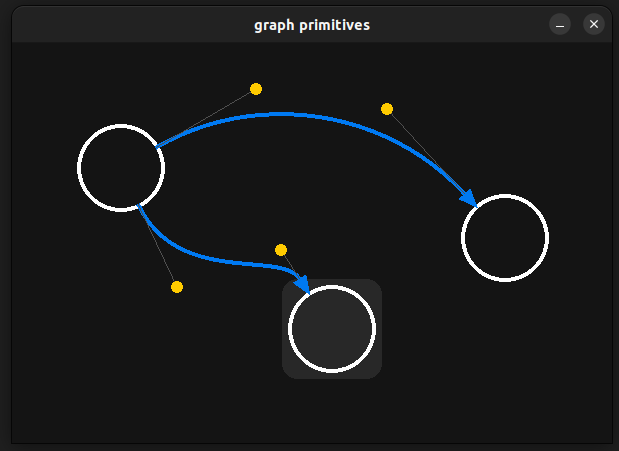
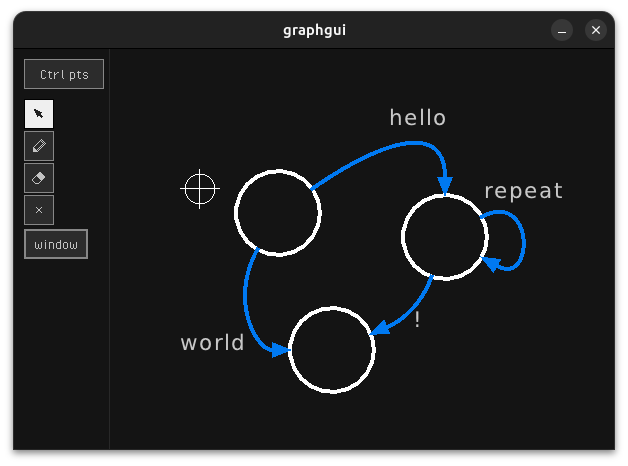
ui features and dynamic object adition

diff --git a/graph.c b/graph.c
@@ -8,7 +8,8 @@
 #include "style_dark.h"
 #include "subwindows.c"
 
-#define ARRAY_LENGTH(array)  sizeof(array)/sizeof(array[0])
+#define COMMONS_IMPLEMENTATION
+#include "commons.h"
 
 #define SCREEN_WIDTH 600
 #define SCREEN_HEGHT 400
@@ -32,10 +33,11 @@ typedef struct Edge {
     int to;
     Vector2 ctrl[2];
     Vector2 loffset;
-    const char label[16]; // TODO: make it resizeable
+    char label[16]; // TODO: make it resizeable
 } Edge;
 
 typedef struct GraphCtx {
+    float  zoom_coef;
     Font font;
     int focused;
     int active;
@@ -110,7 +112,7 @@ static Color global_graph_colors[] = {
     [GC_LABEL_BACKGROUND_HOVER] = {255,255,255, 51},
 };
 
-static_assert(ARRAY_LENGTH(global_graph_colors) == GC_NUM_ITEMS);
+static_assert(ARRAYSIZE(global_graph_colors) == GC_NUM_ITEMS);
 #define internal static
 
 #define focus(type, id)           \
@@ -154,7 +156,7 @@ int main(void)
     // enable debug tracing
     SetTraceLogLevel(LOG_DEBUG);
 
-    InitWindow(SCREEN_WIDTH, SCREEN_HEGHT, "graph primitives");
+    InitWindow(SCREEN_WIDTH, SCREEN_HEGHT, "graphgui");
     SetExitKey(KEY_Q);
     GraphCtx ctx;
     ctx.font = LoadFontEx("/usr/share/fonts/truetype/dejavu/DejaVuSans.ttf", UI_FONT_SIZE, 0, 250);
@@ -162,31 +164,56 @@ int main(void)
 
     Camera2D camera = {0};
     camera.zoom = 1.0f;
+    float scrollSpeed = 0.2f;
 
-    Vector2 nodes[] = {
-        {SCREEN_WIDTH/3, SCREEN_HEGHT/2},
-        {2*SCREEN_WIDTH/3, SCREEN_HEGHT/2},
-        {SCREEN_WIDTH/2, SCREEN_HEGHT*0.7f},
+    Vector2 *nodes = NULL;
+    {
+        Vector2 v1 = {SCREEN_WIDTH/3, SCREEN_HEGHT/2};
+        Vector2 v2 = {2*SCREEN_WIDTH/3, SCREEN_HEGHT/2};
+        Vector2 v3 = {SCREEN_WIDTH/2, SCREEN_HEGHT*0.7f};
+        da_append(nodes, v1);
+        da_append(nodes, v2);
+        da_append(nodes, v3);
     };
 
-    Edge edges[] = {
-        {
+    Edge *edges = NULL;
+    {
+        da_append(edges, ((Edge){
             0, 1, {
                 { 100, -5},
                 {0, -120}
             },
             {0, 0},
             "hello"
-        },
-        {
+        }));
+
+        da_append(edges, ((Edge){
             0, 2, {
                 { 0, 80},
-                {-60, 0}
+                {-75, 0}
             },
             {0, 0},
             "world"
-        },
-    };
+        }));
+
+        da_append(edges, ((Edge){
+            1, 2, {
+                { 0, 100},
+                {70, 60}
+            },
+            {0, 0},
+            "!"
+        }));
+
+        da_append(edges, ((Edge){
+            1, 1, {
+                { 90, -50},
+                {90, 50}
+            },
+            {0, 0},
+            "repeat"
+        }));
+    }
 
     EdgeGeo edge_geo[2];
 
@@ -206,18 +233,28 @@ int main(void)
     SetTargetFPS(30);
 
     while(!WindowShouldClose()) {
+        // camera.zoom += (int)(GetMouseWheelMove()*scrollSpeed);
+        {
+            float new_zoom = camera.zoom + ((float)GetMouseWheelMove()*0.05f);
+            if(new_zoom < 0.05f) new_zoom = 0.05f;
+            float s = (new_zoom - camera.zoom)/(new_zoom*camera.zoom);
+            camera.target = Vector2Add(camera.target, Vector2Scale(GetMousePosition(), s));
+            camera.zoom = new_zoom;
+        }
         // pan control
         if (IsMouseButtonDown(MOUSE_BUTTON_RIGHT))
         {
             Vector2 delta = GetMouseDelta();
-            delta = Vector2Scale(delta, -1.0f);
+            delta = Vector2Scale(delta, -1.0f/camera.zoom);
             camera.target = Vector2Add(camera.target, delta);
         }
 
         Vector2 mouseWorldPos = GetScreenToWorld2D(GetMousePosition(), camera);
 
         if (IsKeyPressed(KEY_D)) {
-            TraceLog(LOG_DEBUG, "item active/focused: %d, %d, %d", ctx.id_type, ctx.active, ctx.focused);
+            // TraceLog(LOG_DEBUG, "item active/focused: %d, %d, %d", ctx.id_type, ctx.active, ctx.focused);
+            TraceLog(LOG_DEBUG, "camera zoom %f", camera.zoom);
+            // TraceLog(LOG_DEBUG, "wheel %f", GetMouseWheelMove());
         }
 
         if (active_tool == TI_CURSOR) {
@@ -252,7 +289,7 @@ int main(void)
             }
 
             // all nodes
-            for (size_t i = 0; i < ARRAY_LENGTH(nodes); i++) {
+            for (size_t i = 0; i < da_size(nodes); i++) {
                 if (CheckCollisionPointCircle(mouseWorldPos, nodes[i], NODE_RADIUS)) {
                     focus(IT_NODE, i);
                 }
@@ -273,7 +310,8 @@ int main(void)
                     ctx.focused = -1;
                 }
             }
-            for (size_t i = 0; i < ARRAY_LENGTH(edges); i++) {
+            float control_radius_world = CONTROL_RADIUS / camera.zoom;
+            for (size_t i = 0; i < da_size(edges); i++) {
                 Edge e = edges[i];
                 compute_edge_geo(edge_geo + i, nodes[e.from], nodes[e.to], e.ctrl[0], e.ctrl[1],
                                  e.loffset, e.label, &ctx);
@@ -281,7 +319,7 @@ int main(void)
                 if (ctx.show_control_pts) {
                     // control point 1
                     if (CheckCollisionPointCircle(mouseWorldPos, edge_geo[i].points[EI_C1A],
-                                                  CONTROL_RADIUS)) {
+                                                  control_radius_world )) {
                         focus(IT_CRTL_PT1, i);
                         // TraceLog(LOG_DEBUG, "control 1");
                     }
@@ -298,7 +336,7 @@ int main(void)
                     // control point 2
 
                     if (CheckCollisionPointCircle(mouseWorldPos, edge_geo[i].points[EI_C2A],
-                                                  CONTROL_RADIUS)) {
+                                                  control_radius_world)) {
                         focus(IT_CRTL_PT2, i);
                         // TraceLog(LOG_DEBUG, "control 2");
                     }
@@ -348,6 +386,7 @@ int main(void)
             if (ctx.id_type == IT_DRAWING && ctx.active == 0) {
                 if(IsMouseButtonReleased(MOUSE_LEFT_BUTTON)) {
                     if (CheckCollisionPointRec(GetMousePosition(), drawing_area)){
+                        // da_append(nodes, mouseWorldPos);
                         TraceLog(LOG_DEBUG, "node placed at: %f, %f", preview_node.x, preview_node.y);
                     }
                     ctx.focused = -1;
@@ -371,6 +410,7 @@ int main(void)
 
 
         // ########################## DRAWING #########################################
+        ctx.zoom_coef = 1.0f/camera.zoom;
         BeginDrawing();
 
             ClearBackground(BACKGROUND_COLOR);
@@ -384,11 +424,11 @@ int main(void)
             DrawLine(origin.x , origin.y - ORIGIN_LINE_LEN/2, origin.x, origin.y + ORIGIN_LINE_LEN/2, ORIGIN_COLOR);
             DrawCircleLinesV(origin, ORIGIN_CIRCLE_RADIUS, ORIGIN_COLOR);
             BeginMode2D(camera);
-                for(size_t i = 0; i < ARRAY_LENGTH(nodes); i++){
+                for(size_t i = 0; i < da_size(nodes); i++){
                     draw_node(nodes[i], ctx.id_type == IT_NODE && ctx.focused == (int)i);
                 }
 
-                for(size_t i = 0; i < ARRAY_LENGTH(edges); i++) {
+                for(size_t i = 0; i < da_size(edges); i++) {
                     Edge edge = edges[i];
                     draw_edge(edge_geo + i, i, edge.label, &ctx);
                 }
@@ -445,6 +485,7 @@ void draw_edge(EdgeGeo *geo, int id, const char *label, GraphCtx *ctx)
     DrawTriangleFan(geo->points + EI_TIP, 3, edge_color);
 
     if (ctx->show_control_pts) {
+        float ctrl_radius = CONTROL_RADIUS * ctx->zoom_coef;
         Vector2 bs = geo->points[EI_BS];
         Vector2 be = geo->points[EI_BE];
         Vector2 c1a = geo->points[EI_C1A];
@@ -452,9 +493,9 @@ void draw_edge(EdgeGeo *geo, int id, const char *label, GraphCtx *ctx)
         DrawLineV(bs, c1a, graph_color(GC_CONTROL_LINE));
         DrawLineV(be, c2a, graph_color(GC_CONTROL_LINE));
 
-        DrawCircleV(c1a, 6, (ctx->id_type == IT_CRTL_PT1 && id == ctx->focused)?
+        DrawCircleV(c1a, ctrl_radius, (ctx->id_type == IT_CRTL_PT1 && id == ctx->focused)?
                 graph_color(GC_CONTROL_SELECTED):graph_color(GC_CONTROL));
-        DrawCircleV(c2a, 6, (ctx->id_type == IT_CRTL_PT2 && id == ctx->focused)?
+        DrawCircleV(c2a, ctrl_radius, (ctx->id_type == IT_CRTL_PT2 && id == ctx->focused)?
                 graph_color(GC_CONTROL_SELECTED):graph_color(GC_CONTROL));
     }
 }

diff --git a/subwindows.c b/subwindows.c
@@ -5,7 +5,9 @@ typedef struct NodePropWnd {
 
 int GuiNodeProperty(NodePropWnd *wnd, Vector2 position)
 {
-    int NodeWndActive = !GuiWindowBox((Rectangle){ position.x, position.y, 152, 104 }, "Node properties");
+    int ret = GuiWindowBox((Rectangle){ position.x, position.y, 152, 104 }, "Node properties");
+    int NodeWndActive = !ret;
+    // TraceLog(LOG_DEBUG, "window box ret = %d", ret);
     GuiLabel((Rectangle){ position.x + 8, position.y + 32, 32, 24 }, "Name");
     if (GuiTextBox((Rectangle){ position.x + 48, position.y + 32, 96, 24 }, wnd->NameTextBoxText, 128, wnd->editable))
         wnd->editable = !wnd->editable;

diff --git a/commons.h b/commons.h
@@ -1,0 +1,1 @@
+/home/proto/programs/myprograms/tradc/commons.h
